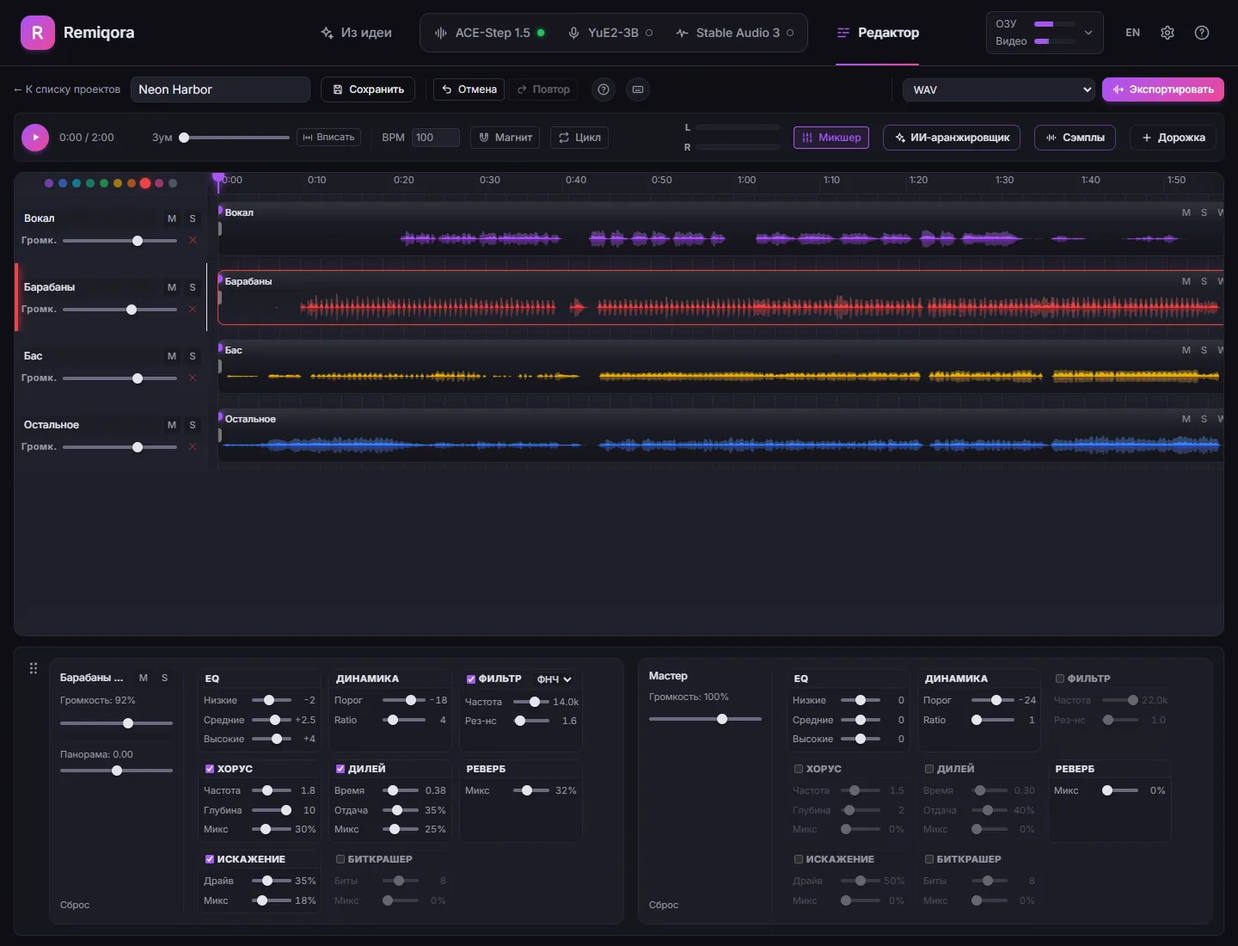
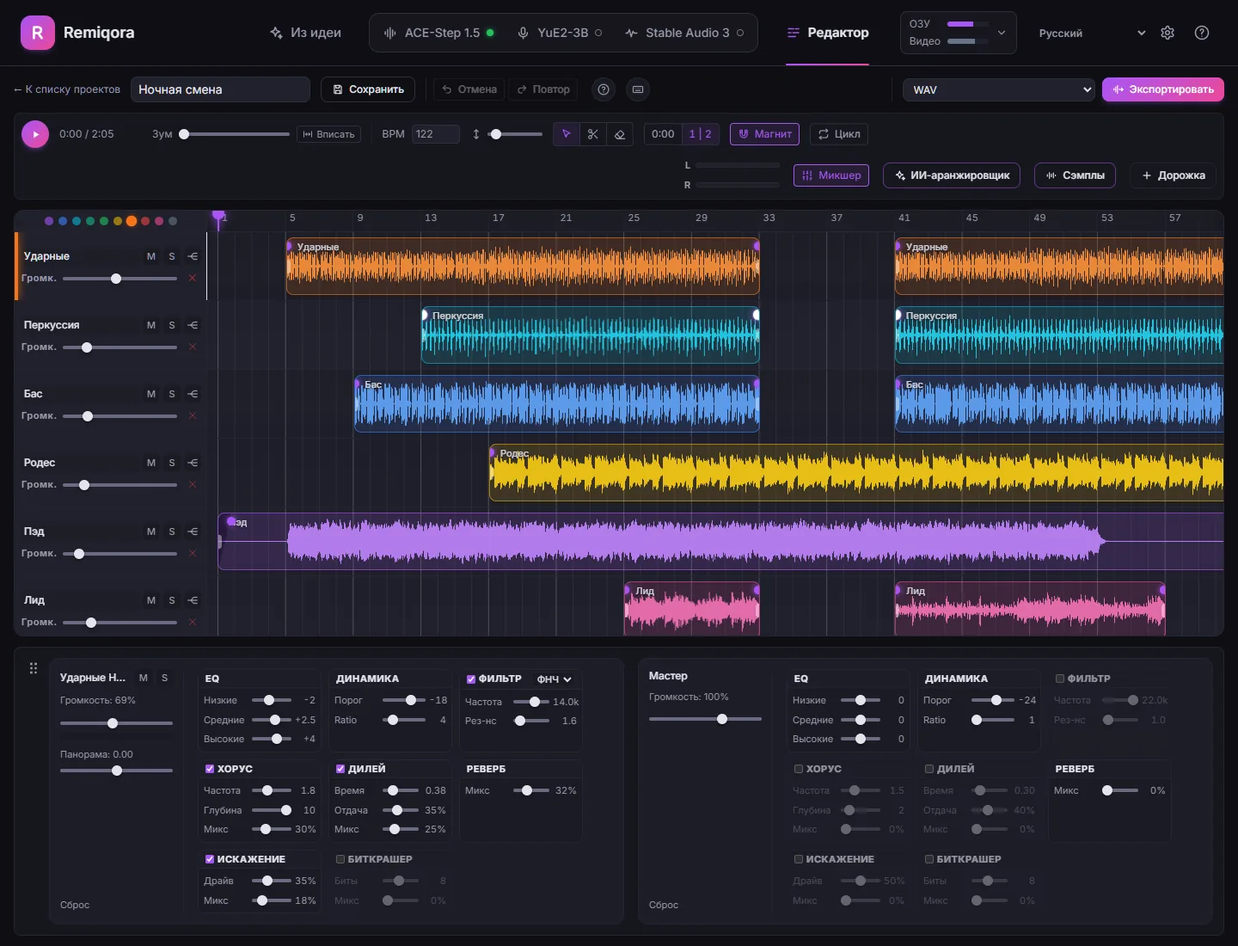
Editor screenshots for 0.6.0

diff --git a/ru/index.html b/ru/index.html
@@ -54,7 +54,7 @@
         <p class="actions"><a class="btn btn--primary" href="https://github.com/inikolax/remiqora">Открыть на GitHub</a><a class="btn" href="https://www.youtube.com/watch?v=uV-fbgu4Nf8">Смотреть демо</a></p>
         <ol class="flow" aria-label="От идеи до готового микса"><li>Из идеи</li><li>Генерация</li><li>Стемы</li><li>Аранжировка</li><li>Сведение</li></ol>
       </div>
-      <div class="hero__art"><figure class="card card--daw"><figcaption class="pill"><span class="dot dot--pink" aria-hidden="true"></span>ИИ-аранжировщик в DAW</figcaption><div class="win"><div class="win__bar" aria-hidden="true"><i></i><i></i><i></i><span>Remiqora — Редактор</span></div><div class="win__body crop" style="aspect-ratio:1085/470"><img src="../screenshots/14-ai-arranger.webp" width="1440" height="1100" alt="Редактор с четырьмя дорожками стемов и панелью ИИ-аранжировщика: «Добавить партию», выбран инструмент «Струнные», описание партии и дорожки, которые слышит модель" fetchpriority="high" style="width:132.7189%;left:-31.7972%;top:-29.7872%"></div></div></figure><figure class="card card--rack"><figcaption class="pill"><span class="dot dot--pink" aria-hidden="true"></span>Рэк эффектов</figcaption><div class="win"><div class="win__bar" aria-hidden="true"><i></i><i></i><i></i><span>Remiqora — Канал</span></div><div class="win__body"><img class="plain" src="../screenshots/10-editor-effects.webp" width="1338" height="620" alt="Рэк эффектов канала барабанов: эквалайзер, динамика, фильтр, хорус, дилей, реверб и искажение включены"></div></div></figure><figure class="card card--stems"><figcaption class="pill"><span class="dot dot--pink" aria-hidden="true"></span>Разделение на стемы</figcaption><div class="win"><div class="win__bar" aria-hidden="true"><i></i><i></i><i></i><span>Remiqora — Стемы</span></div><div class="win__body crop" style="aspect-ratio:728/648"><img src="../screenshots/05-stems-panel.webp" width="728" height="838" alt="Панель стемов: вокал, барабаны, бас и остальное, кнопки «Пересоздать», «Открыть в редакторе» и «Удалить»" loading="lazy" style="width:100.0000%;left:0.0000%;top:0.0000%"></div></div></figure></div>
+      <div class="hero__art"><figure class="card card--daw"><figcaption class="pill"><span class="dot dot--pink" aria-hidden="true"></span>ИИ-аранжировщик в DAW</figcaption><div class="win"><div class="win__bar" aria-hidden="true"><i></i><i></i><i></i><span>Remiqora — Редактор</span></div><div class="win__body crop" style="aspect-ratio:1085/470"><img src="../screenshots/14-ai-arranger.webp" width="1440" height="1100" alt="Редактор с семью дорожками и панелью ИИ-аранжировщика: «Добавить партию», выбран инструмент «Гитара», описание партии, дорожки, которые слышит модель, и тональность ре дорийский" fetchpriority="high" style="width:132.7189%;left:-31.7972%;top:-29.7872%"></div></div></figure><figure class="card card--rack"><figcaption class="pill"><span class="dot dot--pink" aria-hidden="true"></span>Рэк эффектов</figcaption><div class="win"><div class="win__bar" aria-hidden="true"><i></i><i></i><i></i><span>Remiqora — Канал</span></div><div class="win__body"><img class="plain" src="../screenshots/10-editor-effects.webp" width="1338" height="620" alt="Рэк эффектов канала барабанов: эквалайзер, динамика, фильтр, хорус, дилей, реверб и искажение включены"></div></div></figure><figure class="card card--stems"><figcaption class="pill"><span class="dot dot--pink" aria-hidden="true"></span>Разделение на стемы</figcaption><div class="win"><div class="win__bar" aria-hidden="true"><i></i><i></i><i></i><span>Remiqora — Стемы</span></div><div class="win__body crop" style="aspect-ratio:728/648"><img src="../screenshots/05-stems-panel.webp" width="728" height="838" alt="Панель стемов: вокал, барабаны, бас и остальное, кнопки «Пересоздать», «Открыть в редакторе» и «Удалить»" loading="lazy" style="width:100.0000%;left:0.0000%;top:0.0000%"></div></div></figure></div>
       </div>
     </div>
     <svg class="hero__bars" viewBox="0 0 1200 100" preserveAspectRatio="none" aria-hidden="true" focusable="false"><defs><linearGradient id="bars" x1="0" x2="1"><stop offset="0" stop-color="#b952e0"/><stop offset="1" stop-color="#de4bac"/></linearGradient></defs><path d="M3.0 24.6V75.4M9.0 8.0V92.0M15.0 4.0V96.0M21.0 26.7V73.3M27.0 24.2V75.8M33.0 24.4V75.6M39.0 27.6V72.4M45.0 27.5V72.5M51.0 22.8V77.2M57.0 27.0V73.0M63.0 26.7V73.3M69.0 26.4V73.6M75.0 33.3V66.7M81.0 23.1V76.9M87.0 14.3V85.7M93.0 13.5V86.5M99.0 15.0V85.0M105.0 9.3V90.7M111.0 12.1V87.9M117.0 16.9V83.1M123.0 9.7V90.3M129.0 15.8V84.2M135.0 9.0V91.0M141.0 4.0V96.0M147.0 6.0V94.0M153.0 10.4V89.6M159.0 13.4V86.6M165.0 12.6V87.4M171.0 9.1V90.9M177.0 4.6V95.4M183.0 4.0V96.0M189.0 4.0V96.0M195.0 4.0V96.0M201.0 9.4V90.6M207.0 8.1V91.9M213.0 12.0V88.0M219.0 8.3V91.7M225.0 9.4V90.6M231.0 13.0V87.0M237.0 9.5V90.5M243.0 13.1V86.9M249.0 15.3V84.7M255.0 10.5V89.5M261.0 12.5V87.5M267.0 16.0V84.0M273.0 13.6V86.4M279.0 12.3V87.7M285.0 18.9V81.1M291.0 19.1V80.9M297.0 20.7V79.3M303.0 20.1V79.9M309.0 17.6V82.4M315.0 15.7V84.3M321.0 19.3V80.7M327.0 16.5V83.5M333.0 12.2V87.8M339.0 12.8V87.2M345.0 10.9V89.1M351.0 13.8V86.2M357.0 15.3V84.7M363.0 16.0V84.0M369.0 16.9V83.1M375.0 15.6V84.4M381.0 15.8V84.2M387.0 17.5V82.5M393.0 18.4V81.6M399.0 20.9V79.1M405.0 13.4V86.6M411.0 18.5V81.5M417.0 20.8V79.2M423.0 19.6V80.4M429.0 16.0V84.0M435.0 15.0V85.0M441.0 20.4V79.6M447.0 24.1V75.9M453.0 21.7V78.3M459.0 13.6V86.4M465.0 19.2V80.8M471.0 26.0V74.0M477.0 19.5V80.5M483.0 13.5V86.5M489.0 16.9V83.1M495.0 22.2V77.8M501.0 20.4V79.6M507.0 20.8V79.2M513.0 16.4V83.6M519.0 17.3V82.7M525.0 16.6V83.4M531.0 19.2V80.8M537.0 22.3V77.7M543.0 19.6V80.4M549.0 21.2V78.8M555.0 20.0V80.0M561.0 15.3V84.7M567.0 16.5V83.5M573.0 17.4V82.6M579.0 12.0V88.0M585.0 11.8V88.2M591.0 20.0V80.0M597.0 22.7V77.3M603.0 20.7V79.3M609.0 18.0V82.0M615.0 17.5V82.5M621.0 16.1V83.9M627.0 20.0V80.0M633.0 14.5V85.5M639.0 19.7V80.3M645.0 18.9V81.1M651.0 24.0V76.0M657.0 22.1V77.9M663.0 27.0V73.0M669.0 28.1V71.9M675.0 25.3V74.7M681.0 28.4V71.6M687.0 28.3V71.7M693.0 30.7V69.3M699.0 27.1V72.9M705.0 20.3V79.7M711.0 18.4V81.6M717.0 22.3V77.7M723.0 24.4V75.6M729.0 23.7V76.3M735.0 19.3V80.7M741.0 20.2V79.8M747.0 21.7V78.3M753.0 20.7V79.3M759.0 17.4V82.6M765.0 15.2V84.8M771.0 16.2V83.8M777.0 22.7V77.3M783.0 20.3V79.7M789.0 16.4V83.6M795.0 12.9V87.1M801.0 16.9V83.1M807.0 13.5V86.5M813.0 11.4V88.6M819.0 14.0V86.0M825.0 16.4V83.6M831.0 16.1V83.9M837.0 14.9V85.1M843.0 10.3V89.7M849.0 4.2V95.8M855.0 5.0V95.0M861.0 11.3V88.7M867.0 11.9V88.1M873.0 14.6V85.4M879.0 19.2V80.8M885.0 14.2V85.8M891.0 13.1V86.9M897.0 14.3V85.7M903.0 15.1V84.9M909.0 13.8V86.2M915.0 11.1V88.9M921.0 14.5V85.5M927.0 14.2V85.8M933.0 15.8V84.2M939.0 12.9V87.1M945.0 8.5V91.5M951.0 16.0V84.0M957.0 14.5V85.5M963.0 19.4V80.6M969.0 17.7V82.3M975.0 18.2V81.8M981.0 25.8V74.2M987.0 27.9V72.1M993.0 25.4V74.6M999.0 30.5V69.5M1005.0 36.3V63.7M1011.0 38.8V61.2M1017.0 21.6V78.4M1023.0 17.4V82.6M1029.0 21.3V78.7M1035.0 19.2V80.8M1041.0 17.9V82.1M1047.0 22.2V77.8M1053.0 22.5V77.5M1059.0 22.0V78.0M1065.0 18.7V81.3M1071.0 20.3V79.7M1077.0 24.6V75.4M1083.0 24.2V75.8M1089.0 20.6V79.4M1095.0 26.7V73.3M1101.0 21.9V78.1M1107.0 22.4V77.6M1113.0 24.0V76.0M1119.0 24.8V75.2M1125.0 22.3V77.7M1131.0 22.6V77.4M1137.0 19.6V80.4M1143.0 22.7V77.3M1149.0 24.1V75.9M1155.0 19.4V80.6M1161.0 12.4V87.6M1167.0 17.6V82.4M1173.0 18.6V81.4M1179.0 24.5V75.5M1185.0 26.0V74.0M1191.0 30.2V69.8M1197.0 38.9V61.1"/></svg>
@@ -92,7 +92,7 @@
 
   <section id="how" class="wrap section">
     <h2>От запроса до сведения</h2>
-    <ol class="steps" role="list"><li class="step"><div class="step__text"><h3>Начните с идеи</h3><p>Напишите одну фразу: о чём песня, какое настроение, для кого она. Локальная языковая модель напишет промт в формате выбранного движка, с тегами стиля, текстом, темпом и тональностью, и его можно поправить перед генерацией. Попросите дождь по стеклу, и Stable Audio 3 сделает звук, а не песню.</p></div><figure class="shot"><div class="frame crop" style="aspect-ratio:768/700"><img src="../screenshots/01-idea.webp" width="1440" height="1279" alt="Из идеи: идея в одну строку, выбор движка и промт от помощника со стилем, текстом, темпом и тональностью" loading="lazy" style="width:187.5000%;left:-43.7500%;top:-29.1429%"></div><figcaption>Промт, который помощник написал по одной фразе</figcaption></figure></li><li class="step"><div class="step__text"><h3>Генерация</h3><p>Опишите музыку или задайте стиль и текст. <span class="nb">ACE-Step</span> 1.5, YuE2-3B и Stable Audio 3 работают в одном интерфейсе: выберите модель в шапке, и Remiqora запустит её, а другую остановит, поэтому хватит одной видеокарты.</p></div><figure class="shot"><div class="frame crop" style="aspect-ratio:480/580"><img src="../screenshots/02-ace-step.webp" width="1440" height="900" alt="Форма генерации: выбор пресета, описание, длительность и число вариантов" loading="lazy" style="width:300.0000%;left:-21.6667%;top:-29.3103%"></div><figcaption>Форма генерации и библиотека треков</figcaption></figure></li><li class="step"><div class="step__text"><h3>Разделение на стемы</h3><p>Одна кнопка разделяет любой трек на вокал, барабаны, бас и остальное с помощью Demucs. «Открыть в редакторе» отправляет все четыре стема в новый проект.</p></div><figure class="shot"><div class="frame"><img class="plain" src="../screenshots/05-stems-panel.webp" width="728" height="838" alt="Панель стемов: вокал, барабаны, бас и остальное, кнопки «Пересоздать», «Открыть в редакторе» и «Удалить»" loading="lazy"></div><figcaption>Четыре стема, у каждого свой плеер и скачивание</figcaption></figure></li><li class="step step--wide"><div class="step__text"><h3>Новые партии от ИИ-аранжировщика</h3><p>Выберите инструмент и дорожки, которые должна слышать модель: она напишет барабаны, бас, струнные или вокал в их темпе и тональности. Ещё он перерисовывает участок, продолжает трек и делает кавер в другом стиле. Каждый запуск даёт 2–4 варианта на отдельных дорожках, остаётся лучший.</p></div><figure class="shot"><div class="frame crop" style="aspect-ratio:1085/470"><img src="../screenshots/14-ai-arranger.webp" width="1440" height="1100" alt="Редактор с четырьмя дорожками стемов и панелью ИИ-аранжировщика: «Добавить партию», выбран инструмент «Струнные», описание партии и дорожки, которые слышит модель" loading="lazy" style="width:132.7189%;left:-31.7972%;top:-29.7872%"></div><figcaption>ИИ-аранжировщик рядом с проектом из четырёх стемов</figcaption></figure></li><li class="step step--wide"><div class="step__text"><h3>Сведение в редакторе</h3><p>Обрезайте, разрезайте и делайте фейды, зацикливайте фрагмент, привязывайтесь к сетке BPM и подгоняйте клип под темп проекта без изменения тональности.</p></div><figure class="shot"><div class="frame crop" style="aspect-ratio:1408/410"><img src="../screenshots/08-editor-with-clip.webp" width="1440" height="1100" alt="Таймлайн редактора: четыре цветные дорожки стемов с ползунками громкости, выбрана дорожка барабанов, индикаторы мастера и кнопки панелей" loading="lazy" style="width:102.2727%;left:-1.1364%;top:-33.1707%"></div><figcaption>Таймлайн с четырьмя дорожками стемов, выбрана дорожка барабанов</figcaption></figure></li><li class="step step--last"><div class="step__text"><h3>Экспорт</h3><p>Отрендерите микс в WAV или MP3 прямо в браузере, и он сохранится в библиотеке, или выгрузите каждую дорожку с проектом Reaper или файлом DAWproject, чтобы закончить в своей DAW.</p></div></li></ol>
+    <ol class="steps" role="list"><li class="step"><div class="step__text"><h3>Начните с идеи</h3><p>Напишите одну фразу: о чём песня, какое настроение, для кого она. Локальная языковая модель напишет промт в формате выбранного движка, с тегами стиля, текстом, темпом и тональностью, и его можно поправить перед генерацией. Попросите дождь по стеклу, и Stable Audio 3 сделает звук, а не песню.</p></div><figure class="shot"><div class="frame crop" style="aspect-ratio:768/700"><img src="../screenshots/01-idea.webp" width="1440" height="1279" alt="Из идеи: идея в одну строку, выбор движка и промт от помощника со стилем, текстом, темпом и тональностью" loading="lazy" style="width:187.5000%;left:-43.7500%;top:-29.1429%"></div><figcaption>Промт, который помощник написал по одной фразе</figcaption></figure></li><li class="step"><div class="step__text"><h3>Генерация</h3><p>Опишите музыку или задайте стиль и текст. <span class="nb">ACE-Step</span> 1.5, YuE2-3B и Stable Audio 3 работают в одном интерфейсе: выберите модель в шапке, и Remiqora запустит её, а другую остановит, поэтому хватит одной видеокарты.</p></div><figure class="shot"><div class="frame crop" style="aspect-ratio:480/580"><img src="../screenshots/02-ace-step.webp" width="1440" height="900" alt="Форма генерации: выбор пресета, описание, длительность и число вариантов" loading="lazy" style="width:300.0000%;left:-21.6667%;top:-29.3103%"></div><figcaption>Форма генерации и библиотека треков</figcaption></figure></li><li class="step"><div class="step__text"><h3>Разделение на стемы</h3><p>Одна кнопка разделяет любой трек на вокал, барабаны, бас и остальное с помощью Demucs. «Открыть в редакторе» отправляет все четыре стема в новый проект.</p></div><figure class="shot"><div class="frame"><img class="plain" src="../screenshots/05-stems-panel.webp" width="728" height="838" alt="Панель стемов: вокал, барабаны, бас и остальное, кнопки «Пересоздать», «Открыть в редакторе» и «Удалить»" loading="lazy"></div><figcaption>Четыре стема, у каждого свой плеер и скачивание</figcaption></figure></li><li class="step step--wide"><div class="step__text"><h3>Новые партии от ИИ-аранжировщика</h3><p>Выберите инструмент и дорожки, которые должна слышать модель: она напишет барабаны, бас, струнные или вокал в их темпе и тональности. Ещё он перерисовывает участок, продолжает трек и делает кавер в другом стиле. Каждый запуск даёт 2–4 варианта на отдельных дорожках, остаётся лучший.</p></div><figure class="shot"><div class="frame crop" style="aspect-ratio:1085/470"><img src="../screenshots/14-ai-arranger.webp" width="1440" height="1100" alt="Редактор с семью дорожками и панелью ИИ-аранжировщика: «Добавить партию», выбран инструмент «Гитара», описание партии, дорожки, которые слышит модель, и тональность ре дорийский" loading="lazy" style="width:132.7189%;left:-31.7972%;top:-29.7872%"></div><figcaption>ИИ-аранжировщик рядом с проектом из семи дорожек</figcaption></figure></li><li class="step step--wide"><div class="step__text"><h3>Сведение в редакторе</h3><p>Обрезайте, разрезайте и делайте фейды, зацикливайте фрагмент, привязывайтесь к сетке BPM и подгоняйте клип под темп проекта без изменения тональности.</p></div><figure class="shot"><div class="frame crop" style="aspect-ratio:1408/410"><img src="../screenshots/08-editor-with-clip.webp" width="1440" height="1100" alt="Таймлайн редактора в тактах: семь цветных дорожек с ползунками громкости, выбрана дорожка барабанов, индикаторы мастера и кнопки панелей" loading="lazy" style="width:102.2727%;left:-1.1364%;top:-33.1707%"></div><figcaption>Таймлайн в тактах с семью дорожками, выбрана дорожка барабанов</figcaption></figure></li><li class="step step--last"><div class="step__text"><h3>Экспорт</h3><p>Отрендерите микс в WAV или MP3 прямо в браузере, и он сохранится в библиотеке, или выгрузите каждую дорожку с проектом Reaper или файлом DAWproject, чтобы закончить в своей DAW.</p></div></li></ol>
   </section>
 
   <section id="editor" class="wrap section editor">

diff --git a/index.html b/index.html
@@ -54,7 +54,7 @@
         <p class="actions"><a class="btn btn--primary" href="https://github.com/inikolax/remiqora">Get it on GitHub</a><a class="btn" href="https://www.youtube.com/watch?v=uV-fbgu4Nf8">Watch the demo</a></p>
         <ol class="flow" aria-label="From idea to finished mix"><li>From an idea</li><li>Generate</li><li>Stems</li><li>AI arranger</li><li>Mix</li></ol>
       </div>
-      <div class="hero__art"><figure class="card card--daw"><figcaption class="pill"><span class="dot dot--pink" aria-hidden="true"></span>AI arranger in the DAW</figcaption><div class="win"><div class="win__bar" aria-hidden="true"><i></i><i></i><i></i><span>Remiqora — Editor</span></div><div class="win__body crop" style="aspect-ratio:1085/470"><img src="screenshots/en/14-ai-arranger.webp" width="1440" height="1100" alt="The editor with four stem lanes and the AI arranger panel: Add a part, the instrument chips with Strings picked, a part description and the lanes the model hears" fetchpriority="high" style="width:132.7189%;left:-31.7972%;top:-29.7872%"></div></div></figure><figure class="card card--rack"><figcaption class="pill"><span class="dot dot--pink" aria-hidden="true"></span>Effects rack</figcaption><div class="win"><div class="win__bar" aria-hidden="true"><i></i><i></i><i></i><span>Remiqora — Channel</span></div><div class="win__body"><img class="plain" src="screenshots/en/10-editor-effects.webp" width="1338" height="622" alt="The effects rack of the drums channel with EQ, dynamics, filter, chorus, delay, reverb and distortion switched on"></div></div></figure><figure class="card card--stems"><figcaption class="pill"><span class="dot dot--pink" aria-hidden="true"></span>Stem separation</figcaption><div class="win"><div class="win__bar" aria-hidden="true"><i></i><i></i><i></i><span>Remiqora — Stems</span></div><div class="win__body crop" style="aspect-ratio:728/648"><img src="screenshots/en/05-stems-panel.webp" width="728" height="838" alt="The stems panel: vocals, drums, bass and other, with Recreate, Open in editor and Delete" loading="lazy" style="width:100.0000%;left:0.0000%;top:0.0000%"></div></div></figure></div>
+      <div class="hero__art"><figure class="card card--daw"><figcaption class="pill"><span class="dot dot--pink" aria-hidden="true"></span>AI arranger in the DAW</figcaption><div class="win"><div class="win__bar" aria-hidden="true"><i></i><i></i><i></i><span>Remiqora — Editor</span></div><div class="win__body crop" style="aspect-ratio:1085/470"><img src="screenshots/en/14-ai-arranger.webp" width="1440" height="1100" alt="The editor with seven lanes and the AI arranger panel: Add a part, the instrument chips with Guitar picked, a part description, the lanes the model hears and D Dorian as the key" fetchpriority="high" style="width:132.7189%;left:-31.7972%;top:-29.7872%"></div></div></figure><figure class="card card--rack"><figcaption class="pill"><span class="dot dot--pink" aria-hidden="true"></span>Effects rack</figcaption><div class="win"><div class="win__bar" aria-hidden="true"><i></i><i></i><i></i><span>Remiqora — Channel</span></div><div class="win__body"><img class="plain" src="screenshots/en/10-editor-effects.webp" width="1338" height="622" alt="The effects rack of the drums channel with EQ, dynamics, filter, chorus, delay, reverb and distortion switched on"></div></div></figure><figure class="card card--stems"><figcaption class="pill"><span class="dot dot--pink" aria-hidden="true"></span>Stem separation</figcaption><div class="win"><div class="win__bar" aria-hidden="true"><i></i><i></i><i></i><span>Remiqora — Stems</span></div><div class="win__body crop" style="aspect-ratio:728/648"><img src="screenshots/en/05-stems-panel.webp" width="728" height="838" alt="The stems panel: vocals, drums, bass and other, with Recreate, Open in editor and Delete" loading="lazy" style="width:100.0000%;left:0.0000%;top:0.0000%"></div></div></figure></div>
       </div>
     </div>
     <svg class="hero__bars" viewBox="0 0 1200 100" preserveAspectRatio="none" aria-hidden="true" focusable="false"><defs><linearGradient id="bars" x1="0" x2="1"><stop offset="0" stop-color="#b952e0"/><stop offset="1" stop-color="#de4bac"/></linearGradient></defs><path d="M3.0 27.4V72.6M9.0 12.6V87.4M15.0 13.0V87.0M21.0 14.9V85.1M27.0 11.0V89.0M33.0 13.4V86.6M39.0 10.5V89.5M45.0 10.6V89.4M51.0 15.0V85.0M57.0 13.5V86.5M63.0 10.2V89.8M69.0 11.8V88.2M75.0 21.5V78.5M81.0 20.4V79.6M87.0 11.8V88.2M93.0 13.1V86.9M99.0 17.6V82.4M105.0 13.0V87.0M111.0 21.5V78.5M117.0 18.0V82.0M123.0 18.6V81.4M129.0 9.3V90.7M135.0 15.9V84.1M141.0 19.3V80.7M147.0 23.8V76.2M153.0 10.6V89.4M159.0 7.8V92.2M165.0 5.5V94.5M171.0 6.5V93.5M177.0 14.2V85.8M183.0 13.3V86.7M189.0 18.6V81.4M195.0 13.1V86.9M201.0 8.1V91.9M207.0 12.1V87.9M213.0 14.8V85.2M219.0 14.6V85.4M225.0 13.0V87.0M231.0 16.6V83.4M237.0 13.3V86.7M243.0 9.9V90.1M249.0 8.2V91.8M255.0 8.8V91.2M261.0 9.9V90.1M267.0 4.0V96.0M273.0 8.1V91.9M279.0 8.5V91.5M285.0 10.5V89.5M291.0 4.0V96.0M297.0 11.7V88.3M303.0 11.9V88.1M309.0 9.7V90.3M315.0 9.4V90.6M321.0 6.7V93.3M327.0 4.0V96.0M333.0 12.3V87.7M339.0 14.8V85.2M345.0 20.1V79.9M351.0 33.1V66.9M357.0 23.0V77.0M363.0 25.8V74.2M369.0 31.5V68.5M375.0 29.3V70.7M381.0 31.5V68.5M387.0 30.0V70.0M393.0 29.5V70.5M399.0 25.6V74.4M405.0 17.6V82.4M411.0 15.7V84.3M417.0 29.8V70.2M423.0 24.3V75.7M429.0 15.9V84.1M435.0 34.3V65.7M441.0 36.1V63.9M447.0 32.9V67.1M453.0 35.5V64.5M459.0 32.5V67.5M465.0 30.0V70.0M471.0 16.1V83.9M477.0 14.8V85.2M483.0 24.4V75.6M489.0 28.1V71.9M495.0 17.9V82.1M501.0 23.6V76.4M507.0 28.8V71.2M513.0 20.0V80.0M519.0 30.5V69.5M525.0 35.8V64.2M531.0 30.8V69.2M537.0 23.6V76.4M543.0 16.6V83.4M549.0 12.9V87.1M555.0 34.8V65.2M561.0 23.4V76.6M567.0 27.8V72.2M573.0 41.7V58.3M579.0 36.2V63.8M585.0 38.0V62.0M591.0 40.1V59.9M597.0 35.9V64.1M603.0 36.5V63.5M609.0 41.9V58.1M615.0 42.0V58.0M621.0 25.1V74.9M627.0 20.1V79.9M633.0 11.7V88.3M639.0 18.8V81.2M645.0 14.9V85.1M651.0 14.9V85.1M657.0 12.5V87.5M663.0 16.5V83.5M669.0 21.0V79.0M675.0 13.4V86.6M681.0 18.1V81.9M687.0 21.3V78.7M693.0 10.8V89.2M699.0 14.2V85.8M705.0 16.1V83.9M711.0 16.6V83.4M717.0 8.3V91.7M723.0 4.9V95.1M729.0 14.5V85.5M735.0 12.8V87.2M741.0 13.9V86.1M747.0 15.5V84.5M753.0 17.8V82.2M759.0 15.7V84.3M765.0 17.3V82.7M771.0 7.3V92.7M777.0 11.0V89.0M783.0 12.4V87.6M789.0 6.7V93.3M795.0 8.4V91.6M801.0 4.0V96.0M807.0 9.6V90.4M813.0 7.7V92.3M819.0 10.3V89.7M825.0 19.0V81.0M831.0 14.3V85.7M837.0 11.6V88.4M843.0 14.5V85.5M849.0 15.8V84.2M855.0 12.8V87.2M861.0 12.8V87.2M867.0 15.9V84.1M873.0 20.3V79.7M879.0 33.5V66.5M885.0 41.5V58.5M891.0 34.1V65.9M897.0 15.5V84.5M903.0 16.1V83.9M909.0 12.0V88.0M915.0 11.0V89.0M921.0 18.9V81.1M927.0 14.5V85.5M933.0 15.5V84.5M939.0 23.0V77.0M945.0 20.6V79.4M951.0 14.7V85.3M957.0 16.7V83.3M963.0 18.6V81.4M969.0 16.9V83.1M975.0 23.9V76.1M981.0 15.3V84.7M987.0 18.0V82.0M993.0 16.2V83.8M999.0 15.1V84.9M1005.0 17.6V82.4M1011.0 15.6V84.4M1017.0 17.5V82.5M1023.0 16.4V83.6M1029.0 17.7V82.3M1035.0 12.5V87.5M1041.0 18.5V81.5M1047.0 16.3V83.7M1053.0 13.2V86.8M1059.0 19.0V81.0M1065.0 13.4V86.6M1071.0 15.1V84.9M1077.0 16.7V83.3M1083.0 16.0V84.0M1089.0 13.1V86.9M1095.0 22.6V77.4M1101.0 19.6V80.4M1107.0 17.4V82.6M1113.0 21.2V78.8M1119.0 23.8V76.2M1125.0 22.4V77.6M1131.0 13.5V86.5M1137.0 13.6V86.4M1143.0 18.2V81.8M1149.0 17.9V82.1M1155.0 25.0V75.0M1161.0 22.0V78.0M1167.0 25.6V74.4M1173.0 36.0V64.0M1179.0 33.5V66.5M1185.0 36.8V63.2M1191.0 42.0V58.0M1197.0 45.4V54.6"/></svg>
@@ -92,7 +92,7 @@
 
   <section id="how" class="wrap section">
     <h2>From prompt to mixdown</h2>
-    <ol class="steps" role="list"><li class="step"><div class="step__text"><h3>Start from an idea</h3><p>Write one phrase: what the song is about, the mood, who it is for. A local language model writes the prompt in the chosen engine&#x27;s own format, with style tags, lyrics, tempo and key, and you can edit it before generating. Ask for rain on a window and Stable Audio 3 makes a sound, not a song.</p></div><figure class="shot"><div class="frame crop" style="aspect-ratio:768/700"><img src="screenshots/en/01-idea.webp" width="1440" height="1279" alt="From an idea: a one-line idea, the engine picker and the prompt the assistant wrote, with style, lyrics, tempo and key" loading="lazy" style="width:187.5000%;left:-43.7500%;top:-29.1429%"></div><figcaption>The prompt the assistant wrote from one phrase</figcaption></figure></li><li class="step"><div class="step__text"><h3>Generate</h3><p>Describe the music, or bring a style and lyrics. <span class="nb">ACE-Step</span> 1.5, YuE2-3B and Stable Audio 3 share one interface: pick a model in the header and Remiqora starts it and stops the other, so a single GPU is enough.</p></div><figure class="shot"><div class="frame crop" style="aspect-ratio:480/580"><img src="screenshots/en/02-ace-step.webp" width="1440" height="900" alt="The generation form with a preset picker, a description field, duration and number of variants" loading="lazy" style="width:300.0000%;left:-21.6667%;top:-29.3103%"></div><figcaption>The generation form and your track library</figcaption></figure></li><li class="step"><div class="step__text"><h3>Split into stems</h3><p>One click separates any track into vocals, drums, bass and the rest with Demucs. Open in editor sends all four into a new project.</p></div><figure class="shot"><div class="frame"><img class="plain" src="screenshots/en/05-stems-panel.webp" width="728" height="838" alt="The stems panel: vocals, drums, bass and other, with Recreate, Open in editor and Delete" loading="lazy"></div><figcaption>Four stems, each with its own player and download</figcaption></figure></li><li class="step step--wide"><div class="step__text"><h3>Add parts with the AI arranger</h3><p>Pick an instrument and the lanes the model should hear: it writes drums, bass, strings or vocals in their tempo and key. It can also repaint a section, continue the track or cover it in another style. Every run gives 2 to 4 variants, each on its own lane, so you keep the best one.</p></div><figure class="shot"><div class="frame crop" style="aspect-ratio:1085/470"><img src="screenshots/en/14-ai-arranger.webp" width="1440" height="1100" alt="The editor with four stem lanes and the AI arranger panel: Add a part, the instrument chips with Strings picked, a part description and the lanes the model hears" loading="lazy" style="width:132.7189%;left:-31.7972%;top:-29.7872%"></div><figcaption>The AI arranger docked next to a four-stem project</figcaption></figure></li><li class="step step--wide"><div class="step__text"><h3>Mix in the editor</h3><p>Trim, split and fade clips, loop a section, snap to a BPM grid, and time-stretch a clip to the project tempo without changing its pitch.</p></div><figure class="shot"><div class="frame crop" style="aspect-ratio:1408/410"><img src="screenshots/en/08-editor-with-clip.webp" width="1440" height="1100" alt="The editor timeline: four colored stem lanes with their volume sliders, the drums lane selected, the master meters and the panel buttons" loading="lazy" style="width:102.2727%;left:-1.1364%;top:-33.1707%"></div><figcaption>The timeline with four stem lanes, the drums lane selected</figcaption></figure></li><li class="step step--last"><div class="step__text"><h3>Export</h3><p>Render the mix as WAV or MP3 in the browser and it is saved back to your library, or export every lane with a Reaper project or a DAWproject file to finish in your own DAW.</p></div></li></ol>
+    <ol class="steps" role="list"><li class="step"><div class="step__text"><h3>Start from an idea</h3><p>Write one phrase: what the song is about, the mood, who it is for. A local language model writes the prompt in the chosen engine&#x27;s own format, with style tags, lyrics, tempo and key, and you can edit it before generating. Ask for rain on a window and Stable Audio 3 makes a sound, not a song.</p></div><figure class="shot"><div class="frame crop" style="aspect-ratio:768/700"><img src="screenshots/en/01-idea.webp" width="1440" height="1279" alt="From an idea: a one-line idea, the engine picker and the prompt the assistant wrote, with style, lyrics, tempo and key" loading="lazy" style="width:187.5000%;left:-43.7500%;top:-29.1429%"></div><figcaption>The prompt the assistant wrote from one phrase</figcaption></figure></li><li class="step"><div class="step__text"><h3>Generate</h3><p>Describe the music, or bring a style and lyrics. <span class="nb">ACE-Step</span> 1.5, YuE2-3B and Stable Audio 3 share one interface: pick a model in the header and Remiqora starts it and stops the other, so a single GPU is enough.</p></div><figure class="shot"><div class="frame crop" style="aspect-ratio:480/580"><img src="screenshots/en/02-ace-step.webp" width="1440" height="900" alt="The generation form with a preset picker, a description field, duration and number of variants" loading="lazy" style="width:300.0000%;left:-21.6667%;top:-29.3103%"></div><figcaption>The generation form and your track library</figcaption></figure></li><li class="step"><div class="step__text"><h3>Split into stems</h3><p>One click separates any track into vocals, drums, bass and the rest with Demucs. Open in editor sends all four into a new project.</p></div><figure class="shot"><div class="frame"><img class="plain" src="screenshots/en/05-stems-panel.webp" width="728" height="838" alt="The stems panel: vocals, drums, bass and other, with Recreate, Open in editor and Delete" loading="lazy"></div><figcaption>Four stems, each with its own player and download</figcaption></figure></li><li class="step step--wide"><div class="step__text"><h3>Add parts with the AI arranger</h3><p>Pick an instrument and the lanes the model should hear: it writes drums, bass, strings or vocals in their tempo and key. It can also repaint a section, continue the track or cover it in another style. Every run gives 2 to 4 variants, each on its own lane, so you keep the best one.</p></div><figure class="shot"><div class="frame crop" style="aspect-ratio:1085/470"><img src="screenshots/en/14-ai-arranger.webp" width="1440" height="1100" alt="The editor with seven lanes and the AI arranger panel: Add a part, the instrument chips with Guitar picked, a part description, the lanes the model hears and D Dorian as the key" loading="lazy" style="width:132.7189%;left:-31.7972%;top:-29.7872%"></div><figcaption>The AI arranger docked next to a seven-track project</figcaption></figure></li><li class="step step--wide"><div class="step__text"><h3>Mix in the editor</h3><p>Trim, split and fade clips, loop a section, snap to a BPM grid, and time-stretch a clip to the project tempo without changing its pitch.</p></div><figure class="shot"><div class="frame crop" style="aspect-ratio:1408/410"><img src="screenshots/en/08-editor-with-clip.webp" width="1440" height="1100" alt="The editor timeline counted in bars: seven colored lanes with their volume sliders, the drums lane selected, the master meters and the panel buttons" loading="lazy" style="width:102.2727%;left:-1.1364%;top:-33.1707%"></div><figcaption>The timeline in bars with seven lanes, the drums lane selected</figcaption></figure></li><li class="step step--last"><div class="step__text"><h3>Export</h3><p>Render the mix as WAV or MP3 in the browser and it is saved back to your library, or export every lane with a Reaper project or a DAWproject file to finish in your own DAW.</p></div></li></ol>
   </section>
 
   <section id="editor" class="wrap section editor">
